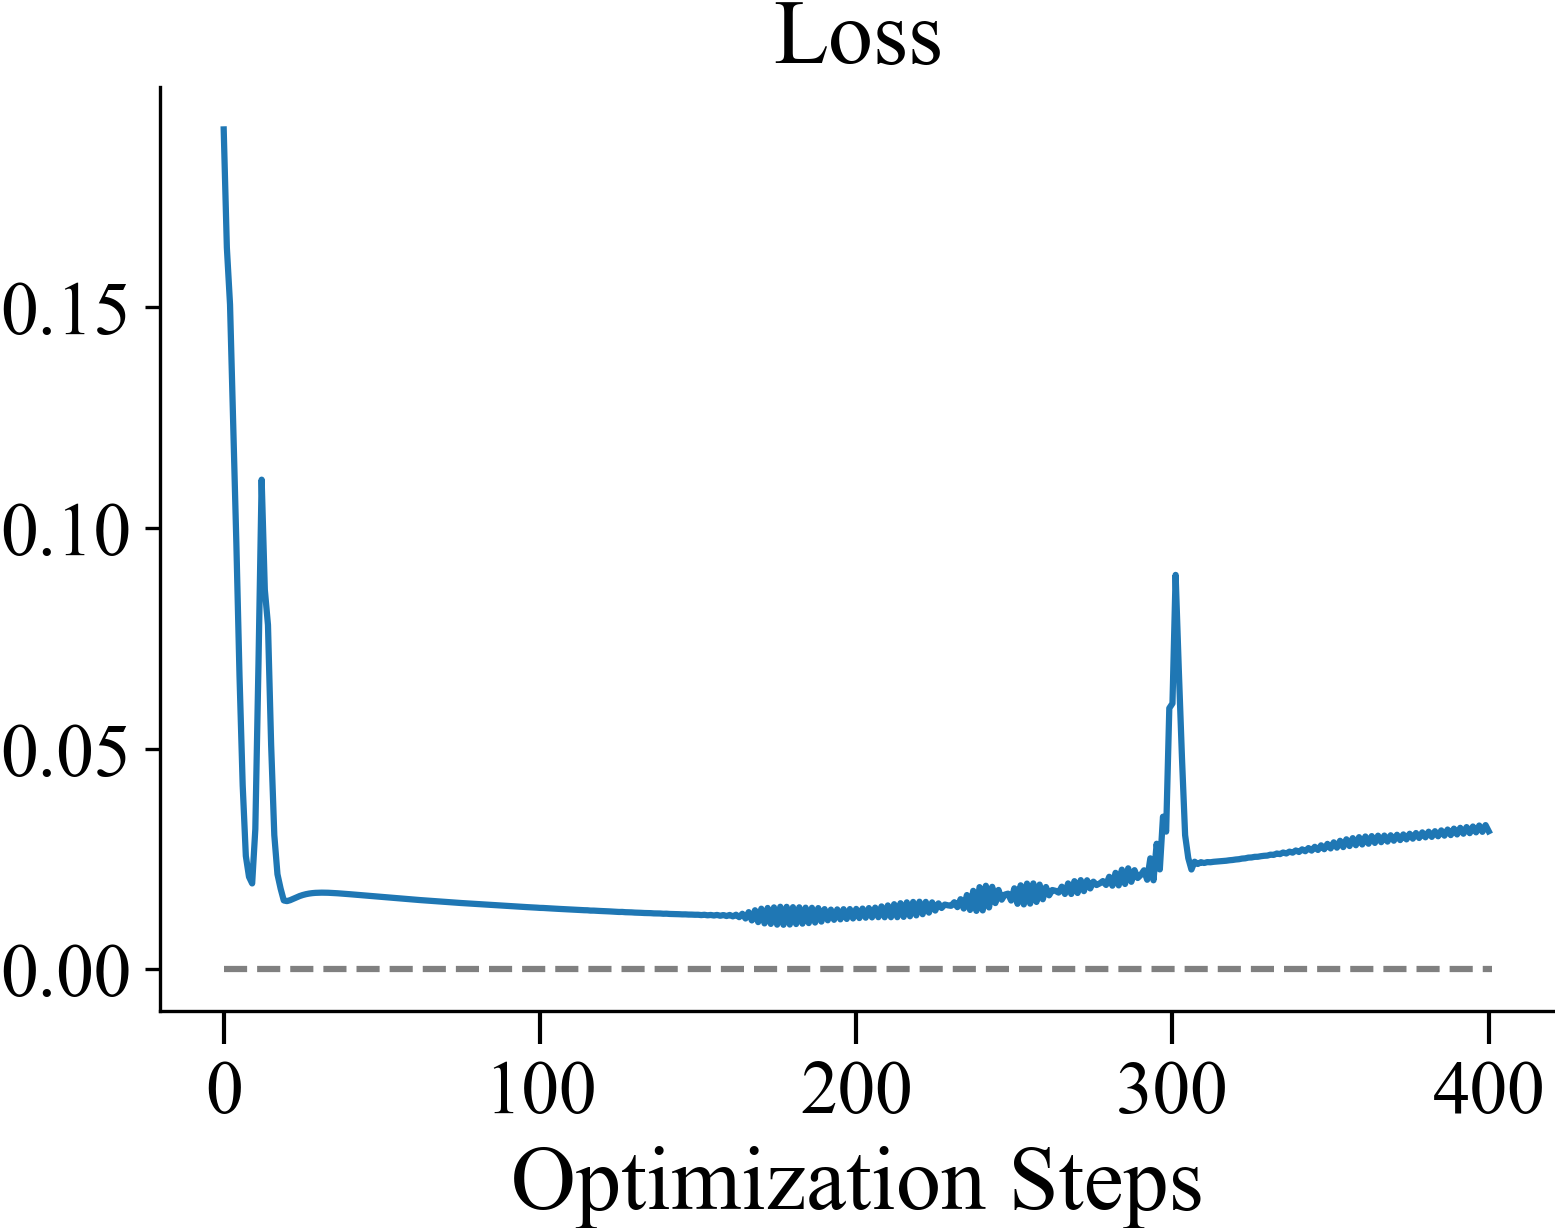
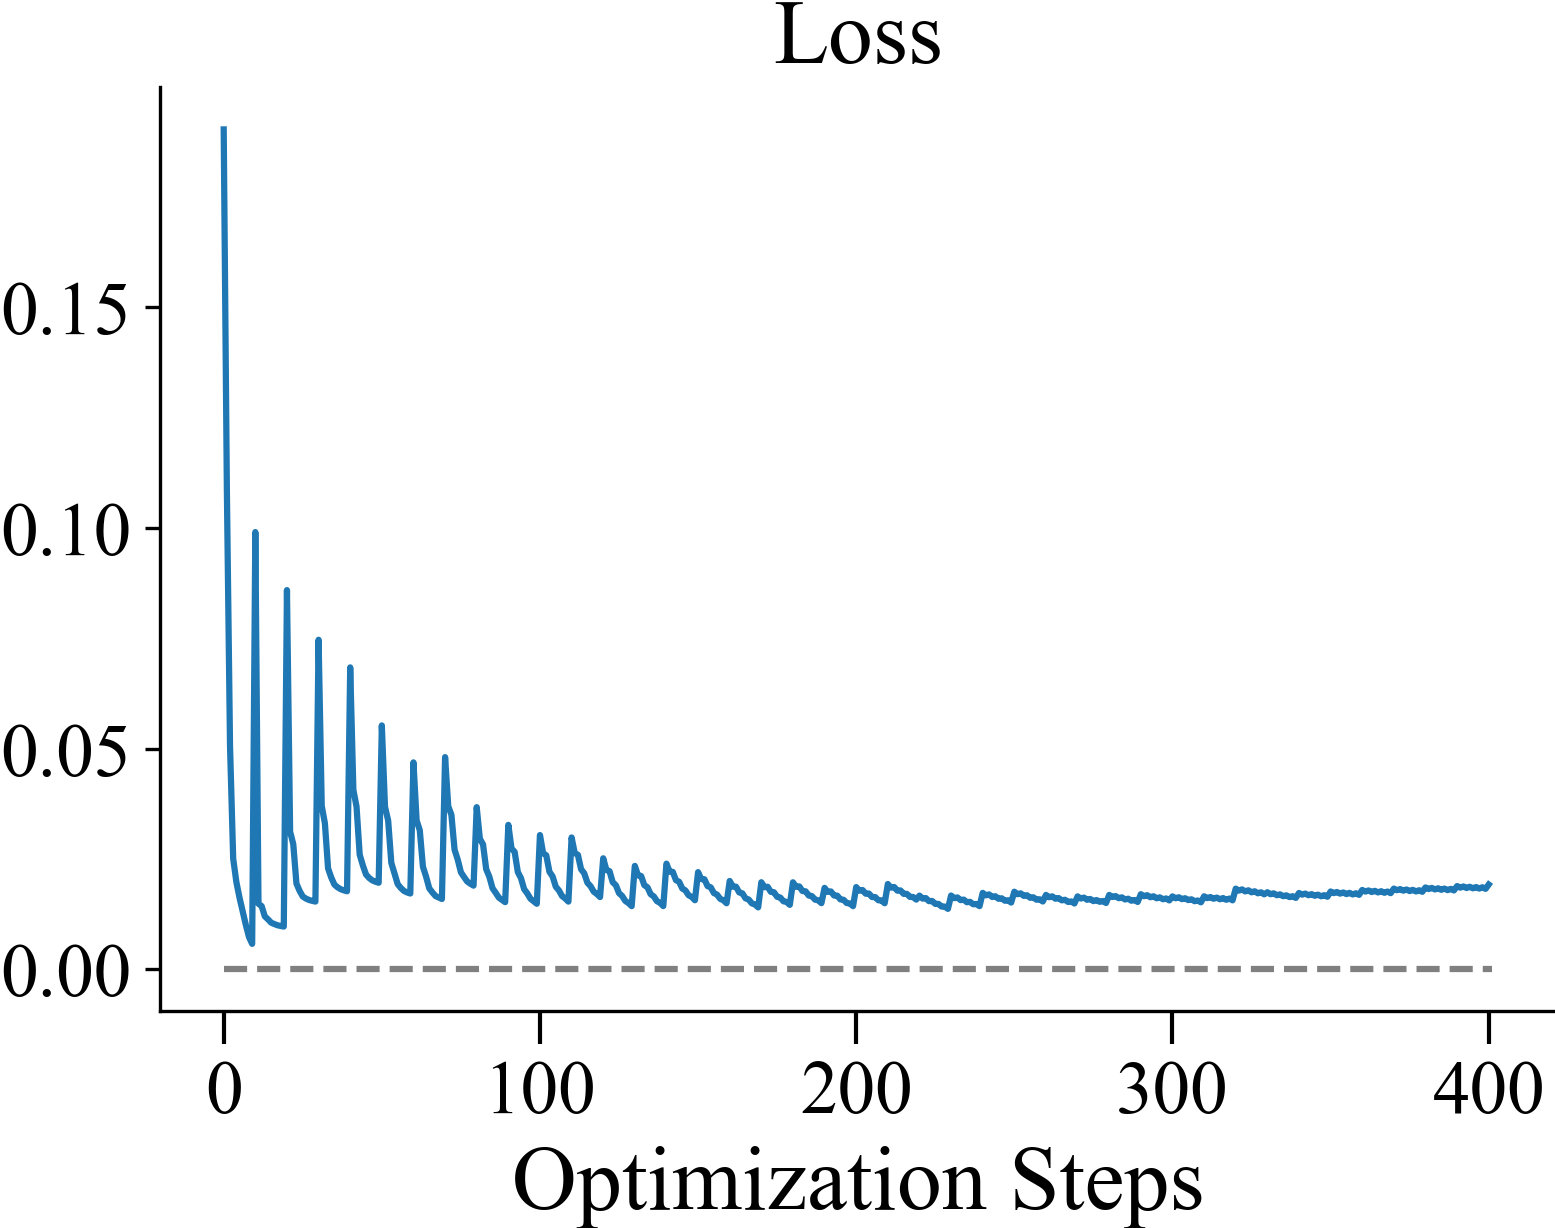
fix the target_freq

diff --git a/toy_mdp/value_iteration.py b/toy_mdp/value_iteration.py
@@ -78,7 +78,7 @@ def supervised(states, values, dyn_mats, lr=4e-4, gamma=0.9, n_epochs=100):
     return q_values, losses
 
 
-def perform_deep_vi(states, rewards, dyn_mats, lr=1e-4, gamma=0.9, n_epochs=400):
+def perform_deep_vi(states, rewards, dyn_mats, lr=1e-4, gamma=0.9, n_epochs=400, target_freq=10):
     # Ge: need to initialize the Q function at zero
     Q = nn.Sequential(
         nn.Linear(1, 400),
@@ -103,7 +103,7 @@ def perform_deep_vi(states, rewards, dyn_mats, lr=1e-4, gamma=0.9, n_epochs=400)
     losses = []
 
     for epoch in trange(n_epochs + 1):
-        if epoch % 1 == 0:
+        if epoch % target_freq == 0:
             Q_target.load_state_dict(Q.state_dict())
 
         q_max, actions = Q_target(states).max(dim=-1)
@@ -166,7 +166,7 @@ def supervised_rff(states, values, dyn_mats, lr=1e-4, gamma=0.9, n_epochs=100, B
     return q_values, losses
 
 
-def perform_deep_vi_rff(states, rewards, dyn_mats, lr=1e-4, gamma=0.9, n_epochs=400, B_scale=1, target_freq=1):
+def perform_deep_vi_rff(states, rewards, dyn_mats, lr=1e-4, gamma=0.9, n_epochs=400, B_scale=1, target_freq=10):
     # Ge: need to initialize the Q function at zero
     Q = nn.Sequential(
         RFF(1, 200, scale=B_scale),

diff --git a/toy_mdp/value_iteration_fine.py b/toy_mdp/value_iteration_fine.py
@@ -80,7 +80,7 @@ def supervised(Q, states, values, lr=1e-4, n_epochs=100):
     return q_values, losses
 
 
-def perform_deep_vi(Q, states, rewards, dyn_mats, lr=1e-4, gamma=0.9, n_epochs=400, target_freq=1):
+def perform_deep_vi(Q, states, rewards, dyn_mats, lr=1e-4, gamma=0.9, n_epochs=400, target_freq=10):
     # Ge: need to initialize the Q function at zero
     Q_target = deepcopy(Q) if target_freq else Q
 
@@ -232,7 +232,6 @@ if __name__ == "__main__":
                 nn.ReLU(),
                 nn.Linear(400, 2),
             )
-
 
         Q = get_Q_rff(B_scale=10)
         q_values, losses = supervised(Q, states, gt_q_values)

diff --git a/toy_mdp/value_iteration_fine.md b/toy_mdp/value_iteration_fine.md
@@ -12,7 +12,7 @@ mdp = RandMDP(seed=0, option='fixed')
 states, rewards, dyn_mats = mdp.get_discrete_mdp(num_states=num_states)
 q_values, losses = perform_vi(states, rewards, dyn_mats)
 ```
-| <img style="align-self:center; zoom:0.3;" src="value_iteration_fine/value_iteration.png?ts=656837" image="None" styles="{'margin': '0.5em'}" width="None" height="None" dpi="300"/> | <img style="align-self:center; zoom:0.3;" src="value_iteration_fine/value_iteration_loss.png?ts=037214" image="None" styles="{'margin': '0.5em'}" width="None" height="None" dpi="300"/> |
+| <img style="align-self:center; zoom:0.3;" src="value_iteration_fine/value_iteration.png?ts=421575" image="None" styles="{'margin': '0.5em'}" width="None" height="None" dpi="300"/> | <img style="align-self:center; zoom:0.3;" src="value_iteration_fine/value_iteration_loss.png?ts=817910" image="None" styles="{'margin': '0.5em'}" width="None" height="None" dpi="300"/> |
 |:-----------------------------------------------------------------------------------------------------------------------------------------------------------------------------------:|:----------------------------------------------------------------------------------------------------------------------------------------------------------------------------------------:|
 
 
@@ -43,9 +43,9 @@ doc.print(f"Avg return for DQN is {returns}")
 ```
 
 ```
-Avg return for DQN is 4.900595889220218
+Avg return for DQN is 4.883710136213835
 ```
-| <img style="align-self:center; zoom:0.3;" src="value_iteration_fine/dqn.png?ts=748795" image="None" styles="{'margin': '0.5em'}" width="None" height="None" dpi="300"/> | <img style="align-self:center; zoom:0.3;" src="value_iteration_fine/dqn_loss.png?ts=072056" image="None" styles="{'margin': '0.5em'}" width="None" height="None" dpi="300"/> |
+| <img style="align-self:center; zoom:0.3;" src="value_iteration_fine/dqn.png?ts=234369" image="None" styles="{'margin': '0.5em'}" width="None" height="None" dpi="300"/> | <img style="align-self:center; zoom:0.3;" src="value_iteration_fine/dqn_loss.png?ts=634100" image="None" styles="{'margin': '0.5em'}" width="None" height="None" dpi="300"/> |
 |:-----------------------------------------------------------------------------------------------------------------------------------------------------------------------:|:----------------------------------------------------------------------------------------------------------------------------------------------------------------------------:|
 
 
@@ -67,7 +67,7 @@ doc.print(f"Avg return for NN+sup is {returns}")
 ```
 Avg return for NN+sup is 4.860335613303359
 ```
-| <img style="align-self:center; zoom:0.3;" src="value_iteration_fine/supervised.png?ts=053952" image="None" styles="{'margin': '0.5em'}" width="None" height="None" dpi="300"/> | <img style="align-self:center; zoom:0.3;" src="value_iteration_fine/supervised_loss.png?ts=364678" image="None" styles="{'margin': '0.5em'}" width="None" height="None" dpi="300"/> |
+| <img style="align-self:center; zoom:0.3;" src="value_iteration_fine/supervised.png?ts=832585" image="None" styles="{'margin': '0.5em'}" width="None" height="None" dpi="300"/> | <img style="align-self:center; zoom:0.3;" src="value_iteration_fine/supervised_loss.png?ts=199446" image="None" styles="{'margin': '0.5em'}" width="None" height="None" dpi="300"/> |
 |:------------------------------------------------------------------------------------------------------------------------------------------------------------------------------:|:-----------------------------------------------------------------------------------------------------------------------------------------------------------------------------------:|
 
 
@@ -89,7 +89,6 @@ def get_Q_rff(B_scale):
         nn.Linear(400, 2),
     )
 
-
 Q = get_Q_rff(B_scale=10)
 q_values, losses = supervised(Q, states, gt_q_values)
 returns = eval_q_policy(Q)
@@ -100,7 +99,7 @@ doc.print(f"Avg return for NN+RFF+sup is {returns}")
 ```
 Avg return for NN+RFF+sup is 6.240936462960335
 ```
-| <img style="align-self:center; zoom:0.3;" src="value_iteration_fine/supervised_rff.png?ts=537889" image="None" styles="{'margin': '0.5em'}" width="None" height="None" dpi="300"/> | <img style="align-self:center; zoom:0.3;" src="value_iteration_fine/supervised_rff_loss.png?ts=854375" image="None" styles="{'margin': '0.5em'}" width="None" height="None" dpi="300"/> |
+| <img style="align-self:center; zoom:0.3;" src="value_iteration_fine/supervised_rff.png?ts=801324" image="None" styles="{'margin': '0.5em'}" width="None" height="None" dpi="300"/> | <img style="align-self:center; zoom:0.3;" src="value_iteration_fine/supervised_rff_loss.png?ts=176975" image="None" styles="{'margin': '0.5em'}" width="None" height="None" dpi="300"/> |
 |:----------------------------------------------------------------------------------------------------------------------------------------------------------------------------------:|:---------------------------------------------------------------------------------------------------------------------------------------------------------------------------------------:|
 
 
@@ -117,9 +116,9 @@ doc.print(f"Avg return for DQN+RFF is {returns}")
 ```
 
 ```
-Avg return for DQN+RFF is 6.264328494839547
+Avg return for DQN+RFF is 6.247257888800383
 ```
-| <img style="align-self:center; zoom:0.3;" src="value_iteration_fine/dqn_rff_10.png?ts=298903" image="None" styles="{'margin': '0.5em'}" width="None" height="None" dpi="300"/> | <img style="align-self:center; zoom:0.3;" src="value_iteration_fine/dqn_rff_10_loss.png?ts=753792" image="None" styles="{'margin': '0.5em'}" width="None" height="None" dpi="300"/> |
+| <img style="align-self:center; zoom:0.3;" src="value_iteration_fine/dqn_rff_10.png?ts=678898" image="None" styles="{'margin': '0.5em'}" width="None" height="None" dpi="300"/> | <img style="align-self:center; zoom:0.3;" src="value_iteration_fine/dqn_rff_10_loss.png?ts=255240" image="None" styles="{'margin': '0.5em'}" width="None" height="None" dpi="300"/> |
 |:------------------------------------------------------------------------------------------------------------------------------------------------------------------------------:|:-----------------------------------------------------------------------------------------------------------------------------------------------------------------------------------:|
 
 
@@ -138,32 +137,32 @@ doc.print(f"Avg return for DQN+RFF-tgt is {returns}")
 ```
 Avg return for DQN+RFF-tgt is 6.264328494839547
 ```
-| <img style="align-self:center; zoom:0.3;" src="value_iteration_fine/dqn_rff_no_target.png?ts=138960" image="None" styles="{'margin': '0.5em'}" width="None" height="None" dpi="300"/> | <img style="align-self:center; zoom:0.3;" src="value_iteration_fine/dqn_rff_no_target_loss.png?ts=463975" image="None" styles="{'margin': '0.5em'}" width="None" height="None" dpi="300"/> |
+| <img style="align-self:center; zoom:0.3;" src="value_iteration_fine/dqn_rff_no_target.png?ts=215773" image="None" styles="{'margin': '0.5em'}" width="None" height="None" dpi="300"/> | <img style="align-self:center; zoom:0.3;" src="value_iteration_fine/dqn_rff_no_target_loss.png?ts=625795" image="None" styles="{'margin': '0.5em'}" width="None" height="None" dpi="300"/> |
 |:-------------------------------------------------------------------------------------------------------------------------------------------------------------------------------------:|:------------------------------------------------------------------------------------------------------------------------------------------------------------------------------------------:|
 
 
 We can experiment with different scaling $\sigma$
 
-| <img style="align-self:center; zoom:0.3;" src="value_iteration_fine/dqn_rff_1.png?ts=909467" image="None" styles="{'margin': '0.5em'}" width="None" height="None" dpi="300"/> | <img style="align-self:center; zoom:0.3;" src="value_iteration_fine/dqn_rff_1_loss.png?ts=225760" image="None" styles="{'margin': '0.5em'}" width="None" height="None" dpi="300"/> |
+| <img style="align-self:center; zoom:0.3;" src="value_iteration_fine/dqn_rff_1.png?ts=205471" image="None" styles="{'margin': '0.5em'}" width="None" height="None" dpi="300"/> | <img style="align-self:center; zoom:0.3;" src="value_iteration_fine/dqn_rff_1_loss.png?ts=568461" image="None" styles="{'margin': '0.5em'}" width="None" height="None" dpi="300"/> |
 |:-----------------------------------------------------------------------------------------------------------------------------------------------------------------------------:|:----------------------------------------------------------------------------------------------------------------------------------------------------------------------------------:|
 
 $\sigma=1$
 ```
-Avg return for DQN+RFF (sigma 1) is 5.575663371516376
+Avg return for DQN+RFF (sigma 1) is 5.986098792751864
 ```
 
-| <img style="align-self:center; zoom:0.3;" src="value_iteration_fine/dqn_rff_3.png?ts=675801" image="None" styles="{'margin': '0.5em'}" width="None" height="None" dpi="300"/> | <img style="align-self:center; zoom:0.3;" src="value_iteration_fine/dqn_rff_3_loss.png?ts=003753" image="None" styles="{'margin': '0.5em'}" width="None" height="None" dpi="300"/> |
+| <img style="align-self:center; zoom:0.3;" src="value_iteration_fine/dqn_rff_3.png?ts=207122" image="None" styles="{'margin': '0.5em'}" width="None" height="None" dpi="300"/> | <img style="align-self:center; zoom:0.3;" src="value_iteration_fine/dqn_rff_3_loss.png?ts=578265" image="None" styles="{'margin': '0.5em'}" width="None" height="None" dpi="300"/> |
 |:-----------------------------------------------------------------------------------------------------------------------------------------------------------------------------:|:----------------------------------------------------------------------------------------------------------------------------------------------------------------------------------:|
 
 $\sigma=3$
 ```
-Avg return for DQN+RFF (sigma 3) is 6.209378721613539
+Avg return for DQN+RFF (sigma 3) is 6.2352399541306385
 ```
 
-| <img style="align-self:center; zoom:0.3;" src="value_iteration_fine/dqn_rff_5.png?ts=482932" image="None" styles="{'margin': '0.5em'}" width="None" height="None" dpi="300"/> | <img style="align-self:center; zoom:0.3;" src="value_iteration_fine/dqn_rff_5_loss.png?ts=811567" image="None" styles="{'margin': '0.5em'}" width="None" height="None" dpi="300"/> |
+| <img style="align-self:center; zoom:0.3;" src="value_iteration_fine/dqn_rff_5.png?ts=805333" image="None" styles="{'margin': '0.5em'}" width="None" height="None" dpi="300"/> | <img style="align-self:center; zoom:0.3;" src="value_iteration_fine/dqn_rff_5_loss.png?ts=212676" image="None" styles="{'margin': '0.5em'}" width="None" height="None" dpi="300"/> |
 |:-----------------------------------------------------------------------------------------------------------------------------------------------------------------------------:|:----------------------------------------------------------------------------------------------------------------------------------------------------------------------------------:|
 
 $\sigma=5$
 ```
-Avg return for DQN+RFF (sigma 5) is 6.20269516281626
+Avg return for DQN+RFF (sigma 5) is 6.263865783084839
 ```

diff --git a/toy_mdp/value_iteration.md b/toy_mdp/value_iteration.md
@@ -12,7 +12,7 @@ mdp = RandMDP(seed=0, option='fixed')
 states, rewards, dyn_mats = mdp.get_discrete_mdp(num_states=num_states)
 q_values, losses = perform_vi(states, rewards, dyn_mats)
 ```
-| <img style="align-self:center; zoom:0.3;" src="value_iteration/value_iteration.png?ts=330374" image="None" styles="{'margin': '0.5em'}" width="None" height="None" dpi="300"/> | <img style="align-self:center; zoom:0.3;" src="value_iteration/value_iteration_loss.png?ts=885452" image="None" styles="{'margin': '0.5em'}" width="None" height="None" dpi="300"/> |
+| <img style="align-self:center; zoom:0.3;" src="value_iteration/value_iteration.png?ts=437203" image="None" styles="{'margin': '0.5em'}" width="None" height="None" dpi="300"/> | <img style="align-self:center; zoom:0.3;" src="value_iteration/value_iteration_loss.png?ts=834097" image="None" styles="{'margin': '0.5em'}" width="None" height="None" dpi="300"/> |
 |:------------------------------------------------------------------------------------------------------------------------------------------------------------------------------:|:-----------------------------------------------------------------------------------------------------------------------------------------------------------------------------------:|
 
 
@@ -24,7 +24,7 @@ Here we plot the value function learned via deep Q Learning
 ```python
 q_values, losses = perform_deep_vi(states, rewards, dyn_mats)
 ```
-| <img style="align-self:center; zoom:0.3;" src="value_iteration/dqn.png?ts=736278" image="None" styles="{'margin': '0.5em'}" width="None" height="None" dpi="300"/> | <img style="align-self:center; zoom:0.3;" src="value_iteration/dqn_loss.png?ts=447630" image="None" styles="{'margin': '0.5em'}" width="None" height="None" dpi="300"/> |
+| <img style="align-self:center; zoom:0.3;" src="value_iteration/dqn.png?ts=002675" image="None" styles="{'margin': '0.5em'}" width="None" height="None" dpi="300"/> | <img style="align-self:center; zoom:0.3;" src="value_iteration/dqn_loss.png?ts=395483" image="None" styles="{'margin': '0.5em'}" width="None" height="None" dpi="300"/> |
 |:------------------------------------------------------------------------------------------------------------------------------------------------------------------:|:-----------------------------------------------------------------------------------------------------------------------------------------------------------------------:|
 
 
@@ -38,7 +38,7 @@ with 20 states, and even less so with 200.
 ```python
 q_values, losses = supervised(states, gt_q_values, dyn_mats)
 ```
-| <img style="align-self:center; zoom:0.3;" src="value_iteration/supervised.png?ts=382994" image="None" styles="{'margin': '0.5em'}" width="None" height="None" dpi="300"/> | <img style="align-self:center; zoom:0.3;" src="value_iteration/supervised_loss.png?ts=832970" image="None" styles="{'margin': '0.5em'}" width="None" height="None" dpi="300"/> |
+| <img style="align-self:center; zoom:0.3;" src="value_iteration/supervised.png?ts=058338" image="None" styles="{'margin': '0.5em'}" width="None" height="None" dpi="300"/> | <img style="align-self:center; zoom:0.3;" src="value_iteration/supervised_loss.png?ts=466929" image="None" styles="{'margin': '0.5em'}" width="None" height="None" dpi="300"/> |
 |:-------------------------------------------------------------------------------------------------------------------------------------------------------------------------:|:------------------------------------------------------------------------------------------------------------------------------------------------------------------------------:|
 
 
@@ -50,7 +50,7 @@ replace the input layer with RFF embedding.
 ```python
 q_values, losses = supervised_rff(states, gt_q_values, dyn_mats, B_scale=10)
 ```
-| <img style="align-self:center; zoom:0.3;" src="value_iteration/supervised_over_param.png?ts=826609" image="None" styles="{'margin': '0.5em'}" width="None" height="None" dpi="300"/> | <img style="align-self:center; zoom:0.3;" src="value_iteration/supervised_over_param_loss.png?ts=473657" image="None" styles="{'margin': '0.5em'}" width="None" height="None" dpi="300"/> |
+| <img style="align-self:center; zoom:0.3;" src="value_iteration/supervised_over_param.png?ts=458496" image="None" styles="{'margin': '0.5em'}" width="None" height="None" dpi="300"/> | <img style="align-self:center; zoom:0.3;" src="value_iteration/supervised_over_param_loss.png?ts=896356" image="None" styles="{'margin': '0.5em'}" width="None" height="None" dpi="300"/> |
 |:------------------------------------------------------------------------------------------------------------------------------------------------------------------------------------:|:-----------------------------------------------------------------------------------------------------------------------------------------------------------------------------------------:|
 
 
@@ -61,7 +61,7 @@ We can now apply this to DQN and it works right away!
 ```python
 q_values, losses = perform_deep_vi_rff(states, rewards, dyn_mats, n_epochs=500, B_scale=10)
 ```
-| <img style="align-self:center; zoom:0.3;" src="value_iteration/dqn_over_param.png?ts=089987" image="None" styles="{'margin': '0.5em'}" width="None" height="None" dpi="300"/> | <img style="align-self:center; zoom:0.3;" src="value_iteration/dqn_over_param_loss.png?ts=642478" image="None" styles="{'margin': '0.5em'}" width="None" height="None" dpi="300"/> |
+| <img style="align-self:center; zoom:0.3;" src="value_iteration/dqn_over_param.png?ts=603887" image="None" styles="{'margin': '0.5em'}" width="None" height="None" dpi="300"/> | <img style="align-self:center; zoom:0.3;" src="value_iteration/dqn_over_param_loss.png?ts=945961" image="None" styles="{'margin': '0.5em'}" width="None" height="None" dpi="300"/> |
 |:-----------------------------------------------------------------------------------------------------------------------------------------------------------------------------:|:----------------------------------------------------------------------------------------------------------------------------------------------------------------------------------:|
 
 
@@ -73,5 +73,5 @@ Try removing the target network
 q_values, losses = perform_deep_vi_rff(states, rewards, dyn_mats, n_epochs=500, B_scale=10,
                                        target_freq=None)
 ```
-| <img style="align-self:center; zoom:0.3;" src="value_iteration/dqn_over_param_no_target.png?ts=670431" image="None" styles="{'margin': '0.5em'}" width="None" height="None" dpi="300"/> | <img style="align-self:center; zoom:0.3;" src="value_iteration/dqn_over_param_no_target_loss.png?ts=124857" image="None" styles="{'margin': '0.5em'}" width="None" height="None" dpi="300"/> |
+| <img style="align-self:center; zoom:0.3;" src="value_iteration/dqn_over_param_no_target.png?ts=568546" image="None" styles="{'margin': '0.5em'}" width="None" height="None" dpi="300"/> | <img style="align-self:center; zoom:0.3;" src="value_iteration/dqn_over_param_no_target_loss.png?ts=972447" image="None" styles="{'margin': '0.5em'}" width="None" height="None" dpi="300"/> |
 |:---------------------------------------------------------------------------------------------------------------------------------------------------------------------------------------:|:--------------------------------------------------------------------------------------------------------------------------------------------------------------------------------------------:|
